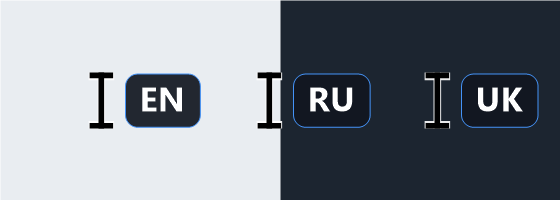
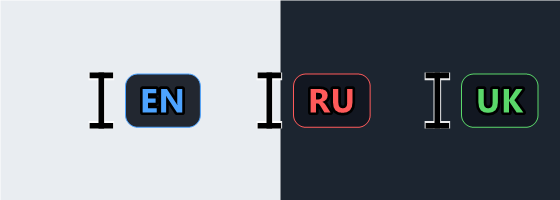
Colour-code the layout marker (EN=blue, RU=red, UK=green) with black outline
The marker letters now carry a per-layout colour drawn with a black outline so they
stay bright and legible on any background:
- EN = blue, RU = red, UK = green
- any other world layout = a deterministic bright HSL colour from its code

Centralised in a new LayoutStyle helper (ColorFor + DrawCode), used by all three
surfaces — the mouse I-beam cursor, the caret overlay, and the tray icon — so they
stay consistent. Cursor preview regenerated; CLAUDE.md + spec v1.1 note the scheme.

diff --git a/src/CyrFlip/LayoutStyle.cs b/src/CyrFlip/LayoutStyle.cs
@@ -1,0 +1,93 @@
+using System;
+using System.Drawing;
+using System.Drawing.Drawing2D;
+
+namespace CyrFlip
+{
+    /// <summary>
+    /// Shared look for the layout marker across all three surfaces (mouse I-beam cursor,
+    /// caret overlay, tray icon): a per-layout bright colour drawn with a black outline so
+    /// the letters stay legible on any background.
+    ///
+    /// EN = blue, RU = red, UK = green; every other layout gets a deterministic bright colour
+    /// derived from its code (stable across renders, never dark).
+    /// </summary>
+    internal static class LayoutStyle
+    {
+        private static readonly Color En = ColorTranslator.FromHtml("#4DA3FF"); // blue
+        private static readonly Color Ru = ColorTranslator.FromHtml("#FF5A5A"); // red
+        private static readonly Color Uk = ColorTranslator.FromHtml("#5AD86A"); // green
+
+        public static Color ColorFor(string code)
+        {
+            switch (code)
+            {
+                case "EN": return En;
+                case "RU": return Ru;
+                case "UK": return Uk;
+                default: return BrightFromCode(code);
+            }
+        }
+
+        // Deterministic, always-bright colour for any other world layout.
+        private static Color BrightFromCode(string code)
+        {
+            int hash = 17;
+            foreach (char c in code ?? string.Empty)
+                hash = hash * 31 + c;
+            double hue = (((hash % 360) + 360) % 360);
+            return FromHsl(hue, 0.85, 0.66); // high saturation + lightness => bright on black
+        }
+
+        /// <summary>Draw <paramref name="code"/> centred in <paramref name="area"/> with a bright
+        /// per-layout fill and a black outline.</summary>
+        public static void DrawCode(Graphics g, string code, Font font, RectangleF area)
+        {
+            if (string.IsNullOrEmpty(code))
+                return;
+
+            using var sf = new StringFormat { Alignment = StringAlignment.Center, LineAlignment = StringAlignment.Center };
+            using var path = new GraphicsPath();
+            path.AddString(code, font.FontFamily, (int)font.Style, font.Size, area, sf);
+
+            SmoothingMode prev = g.SmoothingMode;
+            g.SmoothingMode = SmoothingMode.AntiAlias;
+            using (var outline = new Pen(Color.Black, Math.Max(2f, font.Size * 0.16f)) { LineJoin = LineJoin.Round })
+                g.DrawPath(outline, path);
+            using (var fill = new SolidBrush(ColorFor(code)))
+                g.FillPath(fill, path);
+            g.SmoothingMode = prev;
+        }
+
+        private static Color FromHsl(double h, double s, double l)
+        {
+            h /= 360.0;
+            double r, g, b;
+            if (s == 0)
+            {
+                r = g = b = l;
+            }
+            else
+            {
+                double q = l < 0.5 ? l * (1 + s) : l + s - l * s;
+                double p = 2 * l - q;
+                r = HueToRgb(p, q, h + 1.0 / 3);
+                g = HueToRgb(p, q, h);
+                b = HueToRgb(p, q, h - 1.0 / 3);
+            }
+            return Color.FromArgb(255, Clamp(r), Clamp(g), Clamp(b));
+        }
+
+        private static int Clamp(double v) => Math.Max(0, Math.Min(255, (int)Math.Round(v * 255)));
+
+        private static double HueToRgb(double p, double q, double t)
+        {
+            if (t < 0) t += 1;
+            if (t > 1) t -= 1;
+            if (t < 1.0 / 6) return p + (q - p) * 6 * t;
+            if (t < 1.0 / 2) return q;
+            if (t < 2.0 / 3) return p + (q - p) * (2.0 / 3 - t) * 6;
+            return p;
+        }
+    }
+}

diff --git a/tools/IconGen/Program.cs b/tools/IconGen/Program.cs
@@ -246,16 +246,33 @@ namespace IconGen
             float pillX = x + serifW / 2f + beamH * 0.22f;
             float pillPad = beamH * 0.16f;
             var pill = new RectangleF(pillX, yCenter - sz.Height / 2f - beamH * 0.04f, sz.Width + pillPad * 2f, sz.Height + beamH * 0.08f);
+            Color codeColor = PreviewColor(code);
             using (var path = Rounded(pill, beamH * 0.22f))
             using (var bg = new SolidBrush(Color.FromArgb(235, ColorTranslator.FromHtml("#11161f"))))
-            using (var border = new Pen(ColorTranslator.FromHtml("#4493f8"), 1.5f))
+            using (var border = new Pen(codeColor, 1.5f))
             {
                 g.FillPath(bg, path);
                 g.DrawPath(border, path);
             }
-            using (var text = new SolidBrush(Color.White))
+            using (var glyph = new GraphicsPath())
+            using (var sf = new StringFormat { Alignment = StringAlignment.Center, LineAlignment = StringAlignment.Center })
             {
-                g.DrawString(code, font, text, pillX + pillPad, pill.Y + beamH * 0.04f);
+                glyph.AddString(code, font.FontFamily, (int)FontStyle.Bold, font.Size, pill, sf);
+                using var outline = new Pen(Color.Black, Math.Max(2f, font.Size * 0.16f)) { LineJoin = LineJoin.Round };
+                using var fill = new SolidBrush(codeColor);
+                g.DrawPath(outline, glyph);
+                g.FillPath(fill, glyph);
+            }
+        }
+
+        private static Color PreviewColor(string code)
+        {
+            switch (code)
+            {
+                case "EN": return ColorTranslator.FromHtml("#4DA3FF");
+                case "RU": return ColorTranslator.FromHtml("#FF5A5A");
+                case "UK": return ColorTranslator.FromHtml("#5AD86A");
+                default: return ColorTranslator.FromHtml("#CCCCCC");
             }
         }
 

diff --git a/src/CyrFlip/LayoutCursor.cs b/src/CyrFlip/LayoutCursor.cs
@@ -156,15 +156,12 @@ namespace CyrFlip
                 var pill = new RectangleF(pillX, beamTop + (beamH - markerH) / 2f - beamH * 0.06f, pillW, markerH + beamH * 0.12f);
                 using (var pillPath = Rounded(pill, beamH * 0.22f))
                 using (var pillBg = new SolidBrush(Color.FromArgb(235, ColorTranslator.FromHtml("#11161f"))))
-                using (var border = new Pen(Color.FromArgb(235, ColorTranslator.FromHtml("#4493f8")), 1f))
+                using (var border = new Pen(Color.FromArgb(235, LayoutStyle.ColorFor(code)), 1f))
                 {
                     g.FillPath(pillBg, pillPath);
                     g.DrawPath(border, pillPath);
                 }
-                using (var text = new SolidBrush(Color.White))
-                {
-                    g.DrawString(code, font, text, pillX + pillPadX, pill.Y + beamH * 0.02f);
-                }
+                LayoutStyle.DrawCode(g, code, font, pill);
             }
 
             // Hotspot sits on the I-beam (where the text caret would be).

diff --git a/src/CyrFlip/CaretOverlay.cs b/src/CyrFlip/CaretOverlay.cs
@@ -160,12 +160,10 @@ namespace CyrFlip
                 g.SmoothingMode = SmoothingMode.AntiAlias;
                 g.TextRenderingHint = TextRenderingHint.AntiAlias;
 
-                using (var border = new Pen(ColorTranslator.FromHtml("#4493f8"), 1.5f))
+                using (var border = new Pen(LayoutStyle.ColorFor(_code), 1.5f))
                     g.DrawRectangle(border, 0, 0, Width - 1, Height - 1); // clipped to the rounded region
 
-                using var text = new SolidBrush(Color.White);
-                using var fmt = new StringFormat { Alignment = StringAlignment.Center, LineAlignment = StringAlignment.Center };
-                g.DrawString(_code, _font, text, new RectangleF(0, 0, Width, Height), fmt);
+                LayoutStyle.DrawCode(g, _code, _font, new RectangleF(0, 0, Width, Height));
             }
 
             protected override void Dispose(bool disposing)

diff --git a/src/CyrFlip/CursorIndicator.cs b/src/CyrFlip/CursorIndicator.cs
@@ -87,9 +87,7 @@ namespace CyrFlip
                 }
 
                 using var font = new Font("Segoe UI", code.Length >= 2 ? 14f : 16f, FontStyle.Bold, GraphicsUnit.Pixel);
-                using var fmt = new StringFormat { Alignment = StringAlignment.Center, LineAlignment = StringAlignment.Center };
-                using var ink = new SolidBrush(ColorTranslator.FromHtml("#4493f8"));
-                g.DrawString(code, font, ink, tile, fmt);
+                LayoutStyle.DrawCode(g, code, font, tile);
             }
 
             return IconFromBitmap(bmp);

diff --git a/CLAUDE.md b/CLAUDE.md
@@ -53,6 +53,7 @@ Each class owns one concern (keep it this way — the spec prioritizes a minimal
 - **CursorIndicator.cs** — polls the foreground window's layout (`GetKeyboardLayout` → EN/RU/UK) on a 150 ms `Timer` and raises `LayoutChanged`; also renders the tray icon (`RenderIcon`, GDI → managed `Icon` via a PNG-payload .ico, no leaked HICON). `LayoutChanged` drives all three surfaces (tray icon, `LayoutCursor`, `CaretOverlay`).
 - **LayoutCursor.cs** *(headline)* — renders the caret + EN/RU/UK marker to a `Bitmap`, turns it into a color cursor with a hotspot (`GetHicon` → `GetIconInfo` → `CreateIconIndirect` with `fIcon=false`), installs it via `SetSystemCursor(OCR_IBEAM)`, and nudges a repaint (`ForceCursorRefresh`). `Restore`/`ForceRestore` reload default cursors. Scaled by `config.cursorSize`.
 - **CaretOverlay.cs** *(headline)* — a borderless, topmost, click-through (`WS_EX_TRANSPARENT`), no-activate (`WS_EX_NOACTIVATE` + `ShowWithoutActivation`) `Form` with a rounded window region, following the system caret (`GetGUIThreadInfo` → `ClientToScreen`) on a 70 ms timer and showing the EN/RU/UK marker beside it. Hidden when no system caret is exposed.
+- **LayoutStyle.cs** — shared marker look used by all three surfaces: per-layout colour (EN=blue, RU=red, UK=green; any other code → a deterministic bright HSL colour) and `DrawCode` which renders the letters with that fill **plus a black outline** (`GraphicsPath.AddString` → `DrawPath` black pen → `FillPath`) so they stay legible on any background. Change the colour scheme here, once.
 - **TransliterationEngine.cs** — `static`; two `Dictionary<char,char>` (EN→RU, RU→EN). `Transliterate` auto-detects direction **per character**, so one pass fixes either direction and mixed text; case preserved; unmapped chars pass through. O(n).
 - **ClipboardHandler.cs** — the flip: back up clipboard → clean synthesized Ctrl+C (`SendInput`, releasing held modifiers first) → poll for the selection → transliterate → cancel if the foreground window changed → set clipboard → Ctrl+V → restore clipboard. Clipboard ops retry 3× on lock (spec §5.3). **Must run on an STA thread.**
 - **Autostart.cs** — `HKCU\…\Run` toggle (per-user; not a service — see deviations).

diff --git a/PLAN/Spec_v1.1_Cursor_and_Caret.md b/PLAN/Spec_v1.1_Cursor_and_Caret.md
@@ -50,6 +50,11 @@
 - Текст маркера = текущая раскладка; обновляется при смене раскладки.
 - Когда каретка недоступна (см. ограничения) — overlay скрывается.
 
+**Цвет маркера (общий для всех поверхностей).** Буквы раскладки красятся в свой цвет
+с **чёрной обводкой** (читаемо на любом фоне): EN — синий, RU — красный, UK — зелёный;
+любая другая мировая раскладка — детерминированный **яркий** цвет из её кода (HSL,
+высокая насыщенность и светлота). Реализовано в `LayoutStyle` (одно место для схемы).
+
 **Поиск каретки.** `GetGUIThreadInfo(idThread, …)` для потока активного окна возвращает
 `hwndCaret` и `rcCaret` (в клиентских координатах). Координаты переводятся в экранные
 через `ClientToScreen`. Опрос — таймером ~70 мс (плавное следование).
